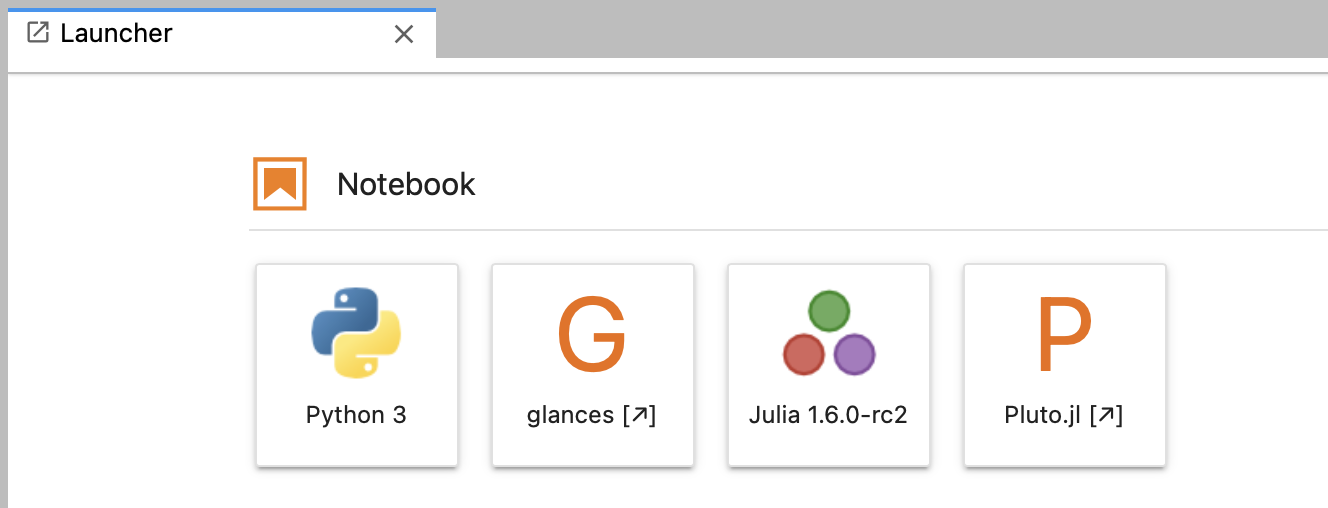
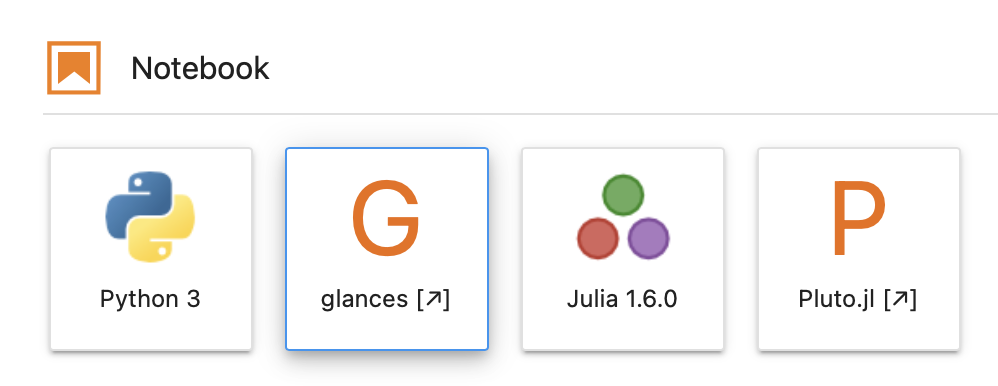
updated version info

diff --git a/README.md b/README.md
@@ -24,14 +24,14 @@ GitHub [statisticalmice/julia-jupyter-docker](https://github.com/StatisticalMice
 6. Install IJulia and Pluto
 7. Install glances, which is a server monitoring tool with a web interface
 
-Versions on 27 March 2021:  
+Versions on 24 April 2021:  
 
 |        | 1.5 | 1.6 |
 |---------|-------|-----------|
-| Julia   | 1.5.4 | 1.6.0 |
+| Julia   | 1.5.4 | 1.6.1 |
 | Python  | 3.8.8   | 3.8.8     |
-| Jupyter | 3.0.12  | 3.0.12    |
-| Conda/Mamba   | 4.9.2   | 4.9.2     |
+| Jupyter | 3.0.14  | 3.0.14    |
+| Conda/Mamba   | 4.10.0   | 4.10.0     |
 | Glances | Glances v3.1.6.2 | Glances v3.1.6.2|
 | Debian  | 10.8  | 10.8      |
 
